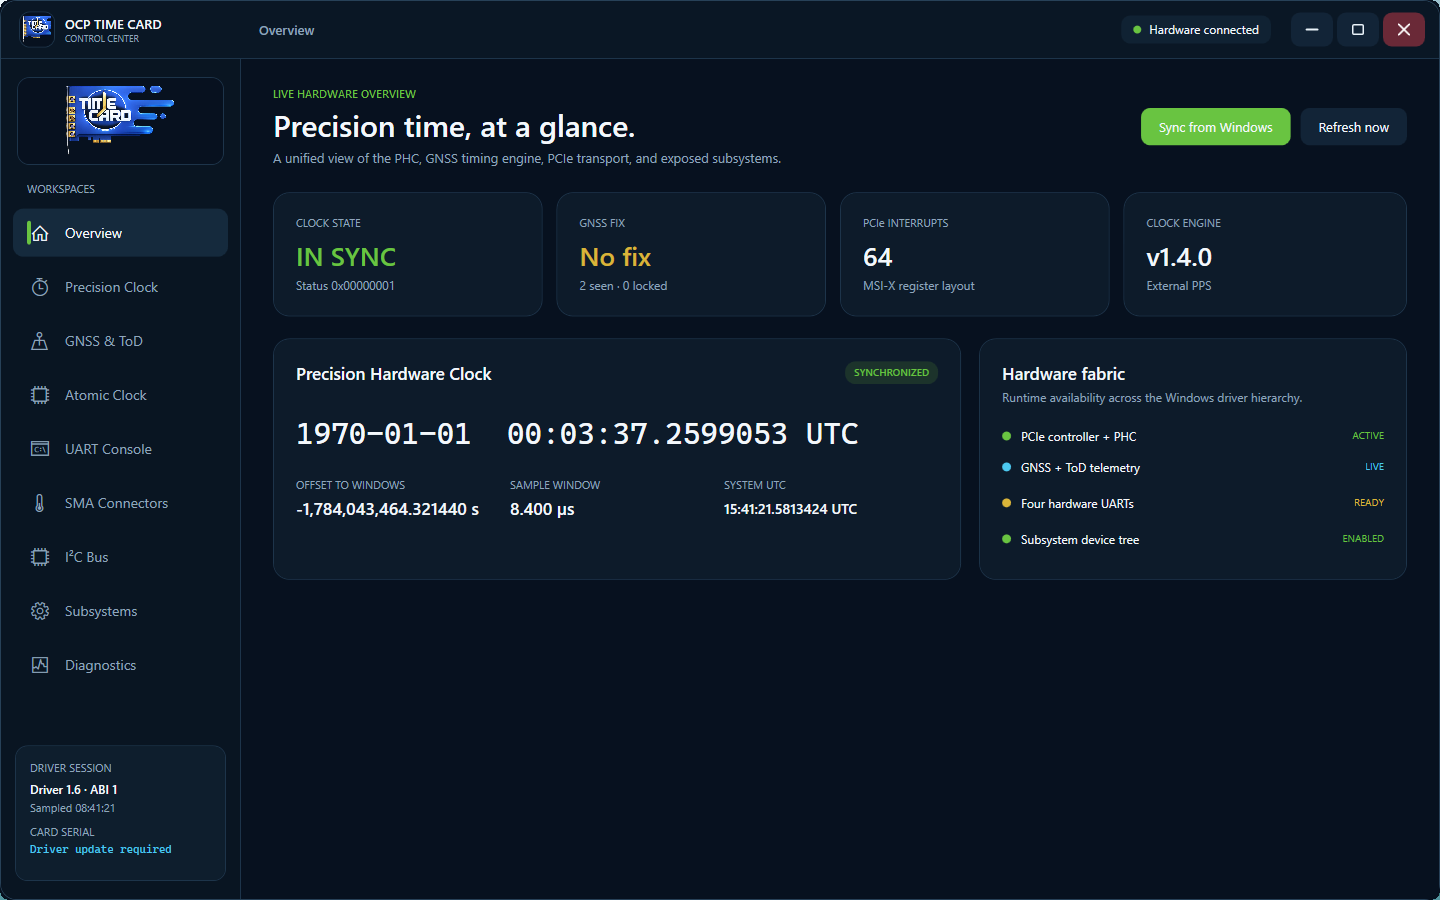
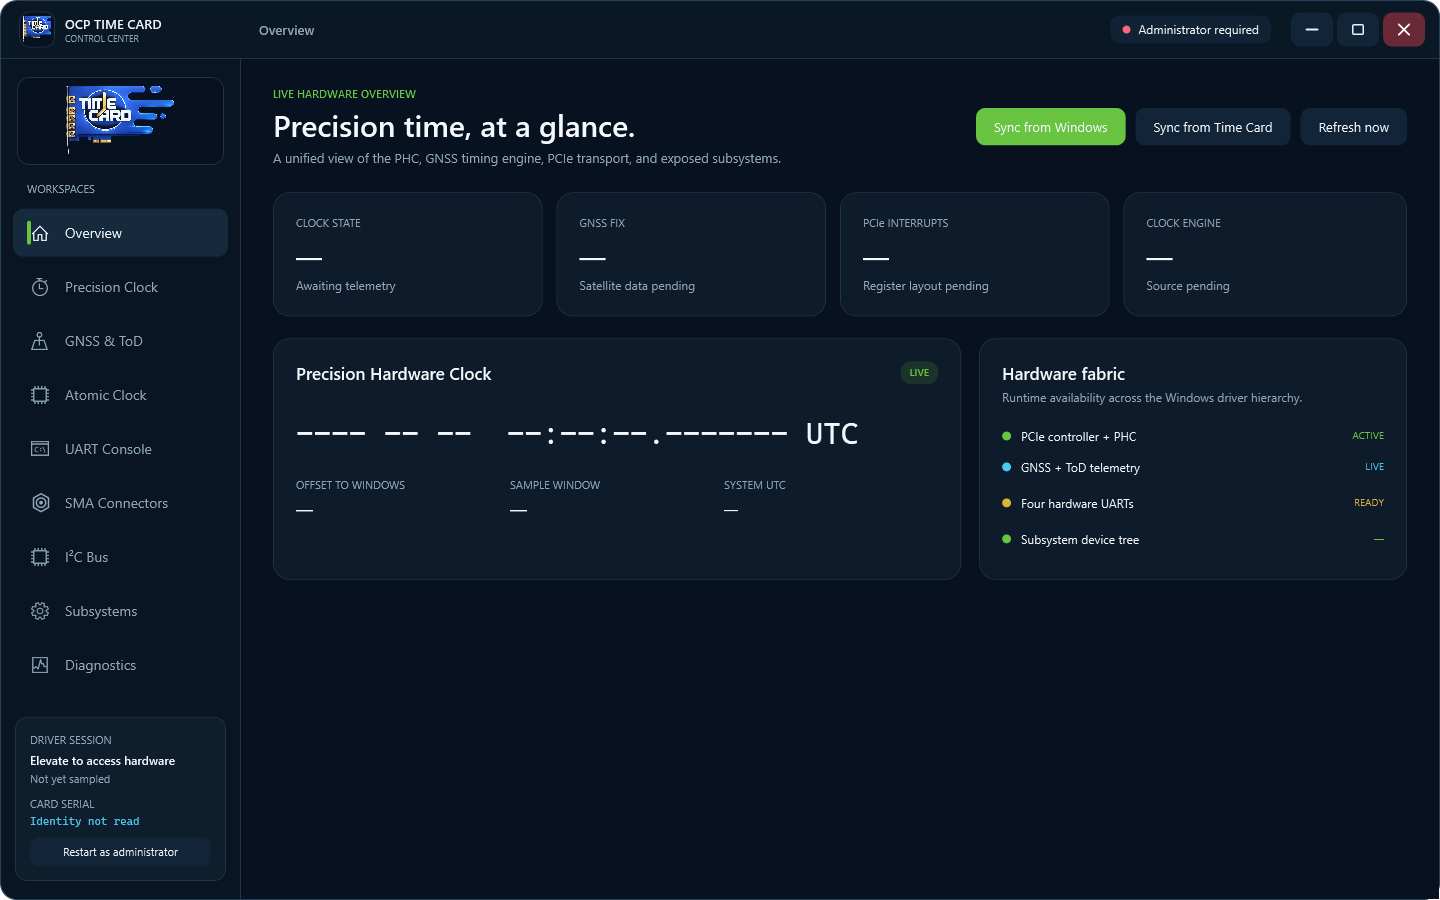
Add reverse clock sync and gray SMA navigation

diff --git a/DRV/Windows/TimeCardControlCenter/App.xaml b/DRV/Windows/TimeCardControlCenter/App.xaml
@@ -236,8 +236,19 @@
                                     </Grid.ColumnDefinitions>
                                     <Border x:Name="Indicator" Width="4" Height="24" CornerRadius="2"
                                             Background="Transparent" HorizontalAlignment="Left" />
-                                    <TextBlock Grid.Column="1" Text="{TemplateBinding Content}" FontFamily="Segoe MDL2 Assets"
-                                               FontSize="18" VerticalAlignment="Center" Foreground="{TemplateBinding Foreground}" />
+                                    <TextBlock x:Name="NavGlyph" Grid.Column="1" Text="{TemplateBinding Content}"
+                                               FontFamily="Segoe MDL2 Assets" FontSize="18"
+                                               VerticalAlignment="Center" Foreground="{TemplateBinding Foreground}" />
+                                    <Grid x:Name="SmaNavGlyph" Grid.Column="1" Width="20" Height="20"
+                                          Visibility="Collapsed" HorizontalAlignment="Left"
+                                          VerticalAlignment="Center">
+                                        <Path Data="M 10,1 L 17.5,5.3 L 17.5,14.7 L 10,19 L 2.5,14.7 L 2.5,5.3 Z"
+                                              Stroke="{TemplateBinding Foreground}" StrokeThickness="1.5"
+                                              StrokeLineJoin="Round" />
+                                        <Ellipse Margin="4.5" Stroke="{TemplateBinding Foreground}"
+                                                 StrokeThickness="1.5" />
+                                        <Ellipse Margin="8" Fill="{TemplateBinding Foreground}" />
+                                    </Grid>
                                     <TextBlock Grid.Column="2" Text="{TemplateBinding ToolTip}" VerticalAlignment="Center"
                                                Foreground="{TemplateBinding Foreground}" />
                                 </Grid>
@@ -250,6 +261,10 @@
                                     <Setter Property="Foreground" Value="{StaticResource TextBrush}" />
                                     <Setter TargetName="NavBorder" Property="Background" Value="#152A3D" />
                                     <Setter TargetName="Indicator" Property="Background" Value="{StaticResource AccentBrush}" />
+                                </Trigger>
+                                <Trigger Property="Tag" Value="Sma">
+                                    <Setter TargetName="NavGlyph" Property="Visibility" Value="Collapsed" />
+                                    <Setter TargetName="SmaNavGlyph" Property="Visibility" Value="Visible" />
                                 </Trigger>
                             </ControlTemplate.Triggers>
                         </ControlTemplate>

diff --git a/DRV/Windows/TimeCardControlCenter/MainWindow.xaml b/DRV/Windows/TimeCardControlCenter/MainWindow.xaml
@@ -205,6 +205,8 @@
                                 </StackPanel>
                                 <StackPanel Grid.Column="1" Orientation="Horizontal" VerticalAlignment="Center">
                                     <Button Content="Sync from Windows" Click="SetClock_Click" Margin="0,0,10,0" />
+                                    <Button Content="Sync from Time Card" Click="SetSystemFromClock_Click"
+                                            Style="{StaticResource SecondaryButton}" Margin="0,0,10,0" />
                                     <Button Content="Refresh now" Click="Refresh_Click" Style="{StaticResource SecondaryButton}" />
                                 </StackPanel>
                             </Grid>

diff --git a/DRV/Windows/TimeCardControlCenter/TimeCardClient.cs b/DRV/Windows/TimeCardControlCenter/TimeCardClient.cs
@@ -81,6 +81,55 @@ namespace TimeCardControlCenter
             SendInput(IoctlSetTime, value);
         }
 
+        public DateTime GetEstimatedClockTimeUtc()
+        {
+            TimeCardCrossTimestampRaw timestamp =
+                GetOutput<TimeCardCrossTimestampRaw>(IoctlGetCrossTimestamp);
+            DateTime epoch = new DateTime(1970, 1, 1, 0, 0, 0,
+                DateTimeKind.Utc);
+            long cardTicks = checked(
+                (long)timestamp.CardTime.Seconds * TimeSpan.TicksPerSecond +
+                timestamp.CardTime.Nanoseconds / 100);
+            DateTime cardAtSample = epoch.AddTicks(cardTicks);
+            DateTime systemBefore = DateTime.FromFileTimeUtc(
+                (long)timestamp.SystemTimeBefore100ns);
+            DateTime systemAfter = DateTime.FromFileTimeUtc(
+                (long)timestamp.SystemTimeAfter100ns);
+            DateTime systemAtSample = systemBefore.AddTicks(
+                (systemAfter.Ticks - systemBefore.Ticks) / 2);
+            TimeSpan sampleAge = DateTime.UtcNow - systemAtSample;
+            if (sampleAge < TimeSpan.FromSeconds(-2) ||
+                sampleAge > TimeSpan.FromSeconds(10))
+                throw new InvalidOperationException(
+                    "The PHC cross-timestamp sample is too old to set Windows safely.");
+            return cardAtSample.Add(sampleAge);
+        }
+
+        public DateTime SetSystemClockFromTimeCard()
+        {
+            DateTime utc = GetEstimatedClockTimeUtc();
+            if (utc.Year < 2020 || utc.Year > 2100)
+                throw new InvalidOperationException(
+                    "The Time Card PHC does not contain a plausible UTC date. " +
+                    "Set the PHC from Windows or establish GNSS time first.");
+
+            NativeSystemTime systemTime = new NativeSystemTime
+            {
+                Year = (ushort)utc.Year,
+                Month = (ushort)utc.Month,
+                DayOfWeek = (ushort)utc.DayOfWeek,
+                Day = (ushort)utc.Day,
+                Hour = (ushort)utc.Hour,
+                Minute = (ushort)utc.Minute,
+                Second = (ushort)utc.Second,
+                Milliseconds = (ushort)utc.Millisecond
+            };
+            if (!SetSystemTime(ref systemTime))
+                throw new Win32Exception(Marshal.GetLastWin32Error(),
+                    "Windows rejected the Time Card UTC value.");
+            return utc;
+        }
+
         public uint SetClockSource(uint source)
         {
             TimeCardClockSourceRaw request = new TimeCardClockSourceRaw
@@ -623,6 +672,19 @@ namespace TimeCardControlCenter
             }
         }
 
+        [StructLayout(LayoutKind.Sequential)]
+        private struct NativeSystemTime
+        {
+            public ushort Year;
+            public ushort Month;
+            public ushort DayOfWeek;
+            public ushort Day;
+            public ushort Hour;
+            public ushort Minute;
+            public ushort Second;
+            public ushort Milliseconds;
+        }
+
         [DllImport("kernel32.dll", CharSet = CharSet.Unicode, SetLastError = true)]
         private static extern SafeFileHandle CreateFile(string fileName, uint desiredAccess,
             uint shareMode, IntPtr securityAttributes, uint creationDisposition,
@@ -633,5 +695,9 @@ namespace TimeCardControlCenter
         private static extern bool DeviceIoControl(SafeFileHandle device, uint controlCode,
             byte[] inputBuffer, int inputBufferSize, byte[] outputBuffer,
             int outputBufferSize, out int bytesReturned, IntPtr overlapped);
+
+        [DllImport("kernel32.dll", SetLastError = true)]
+        [return: MarshalAs(UnmanagedType.Bool)]
+        private static extern bool SetSystemTime(ref NativeSystemTime systemTime);
     }
 }

diff --git a/DRV/Windows/TimeCardControlCenter/MainWindow.xaml.cs b/DRV/Windows/TimeCardControlCenter/MainWindow.xaml.cs
@@ -373,6 +373,62 @@ namespace TimeCardControlCenter
             }
         }
 
+        private async void SetSystemFromClock_Click(object sender,
+                                                     RoutedEventArgs e)
+        {
+            if (!EnsureConnected())
+                return;
+            try
+            {
+                DateTime cardUtc = await Task.Run(
+                    () => client.GetEstimatedClockTimeUtc());
+                if (cardUtc.Year < 2020 || cardUtc.Year > 2100)
+                {
+                    MessageBox.Show(this,
+                        "The Time Card PHC currently reports " +
+                        cardUtc.ToString("yyyy-MM-dd HH:mm:ss.fff 'UTC'",
+                            CultureInfo.InvariantCulture) +
+                        ". Set the PHC from Windows or establish GNSS time before using it to set Windows.",
+                        "Time Card UTC is not plausible", MessageBoxButton.OK,
+                        MessageBoxImage.Warning);
+                    return;
+                }
+
+                string synchronizationWarning = lastSnapshot != null &&
+                    !lastSnapshot.IsClockSynchronized ?
+                    "\n\nThe PHC is not currently reporting synchronization." :
+                    string.Empty;
+                MessageBoxResult confirmation = MessageBox.Show(this,
+                    "Set Windows system time from the Time Card PHC?\n\n" +
+                    "Time Card: " + cardUtc.ToString(
+                        "yyyy-MM-dd HH:mm:ss.fff 'UTC'",
+                        CultureInfo.InvariantCulture) + "\n" +
+                    "Windows:   " + DateTime.UtcNow.ToString(
+                        "yyyy-MM-dd HH:mm:ss.fff 'UTC'",
+                        CultureInfo.InvariantCulture) +
+                    synchronizationWarning +
+                    "\n\nThis changes the system clock immediately.",
+                    "Confirm Windows time synchronization",
+                    MessageBoxButton.YesNo, MessageBoxImage.Warning);
+                if (confirmation != MessageBoxResult.Yes)
+                    return;
+
+                DateTime appliedUtc = await Task.Run(
+                    () => client.SetSystemClockFromTimeCard());
+                Log("Windows UTC set from the Time Card PHC at " +
+                    appliedUtc.ToString("yyyy-MM-dd HH:mm:ss.fff 'UTC'",
+                        CultureInfo.InvariantCulture) + ".");
+                await RefreshSnapshotAsync(false);
+            }
+            catch (Exception ex)
+            {
+                Log("Windows time synchronization failed: " + ex.Message);
+                MessageBox.Show(this, ex.Message,
+                    "Unable to set Windows from the Time Card",
+                    MessageBoxButton.OK, MessageBoxImage.Error);
+            }
+        }
+
         private async void ApplyClockSource_Click(object sender, RoutedEventArgs e)
         {
             if (!EnsureConnected())

diff --git a/DRV/Windows/TimeCardControlCenter/README.md b/DRV/Windows/TimeCardControlCenter/README.md
@@ -21,7 +21,8 @@ it does not shell out to `timecardctl` or scrape Device Manager.
   constellation counts, and average carrier-to-noise level. Compatible
   configuration-database receivers expose navigation rate and platform model,
   constellation selection, TP1 timing, and UART 1 message-rate controls.
-- One-shot PHC synchronization from Windows UTC.
+- Guarded one-shot synchronization in both directions between Windows UTC and
+  the Time Card PHC.
 - Polled UART configuration, monitoring, text/hex display, and text or binary
   transmission for GNSS, GNSS2, atomic-clock, and NMEA ports.
 - FPGA NMEA sentence-generator enable, baud, and polarity configuration with
@@ -118,6 +119,16 @@ external PPS, PTP, RTC, DCF77, register-controlled, or external-selector mode.
 The values and register semantics match the Linux `clock_source` attribute.
 Every change requires confirmation because selecting an unavailable source can
 remove PHC synchronization. Time-of-Day/GNSS is the normal Time Card setting.
+
+## Clock synchronization
+
+The **Overview** workspace provides both synchronization directions. **Sync
+from Windows** writes the current Windows UTC value to the PHC. **Sync from
+Time Card** reads a fresh bracketed PHC cross-timestamp and sets Windows UTC
+from the card after explicit confirmation. The second operation requires
+administrator privileges and is blocked when the PHC date is outside 2020 to
+2100, preventing an uninitialized clock such as 1970 from replacing a valid
+system time. Windows accepts this one-shot value at millisecond resolution.
 
 ## u-blox GNSS configuration
 

diff --git a/README.md b/README.md
@@ -172,8 +172,8 @@ Using a Calnex Sentinel device are comparing various things. Here we are compari
 * CAD files for the custom PCIe bracket 
 
 The Windows Control Center provides live timing telemetry and guarded controls
-for the PHC, GNSS, atomic clock, UART/NMEA, SMA routing, I2C, and subsystem
-hierarchy.
+for the PHC, bidirectional PHC/Windows clock synchronization, GNSS, atomic
+clock, UART/NMEA, SMA routing, I2C, and subsystem hierarchy.
 
 ![OCP Time Card Control Center](DRV/Windows/assets/timecard-control-center.png)
 

diff --git a/DRV/Windows/README.md b/DRV/Windows/README.md
@@ -55,7 +55,8 @@ and GNSS telemetry, clock control, direct u-blox receiver discovery and guarded
 GNSS configuration, a dedicated Microchip MAC-SA53 atomic-clock configuration
 workspace, UART monitoring and binary commands, SMA signal routing, I2C
 discovery and reads, subsystem hierarchy management, and engineering
-diagnostics.
+diagnostics. The Overview workspace includes guarded one-shot synchronization
+from Windows to the PHC and from the Time Card PHC back to Windows.
 
 ```powershell
 .\build-gui.cmd release
